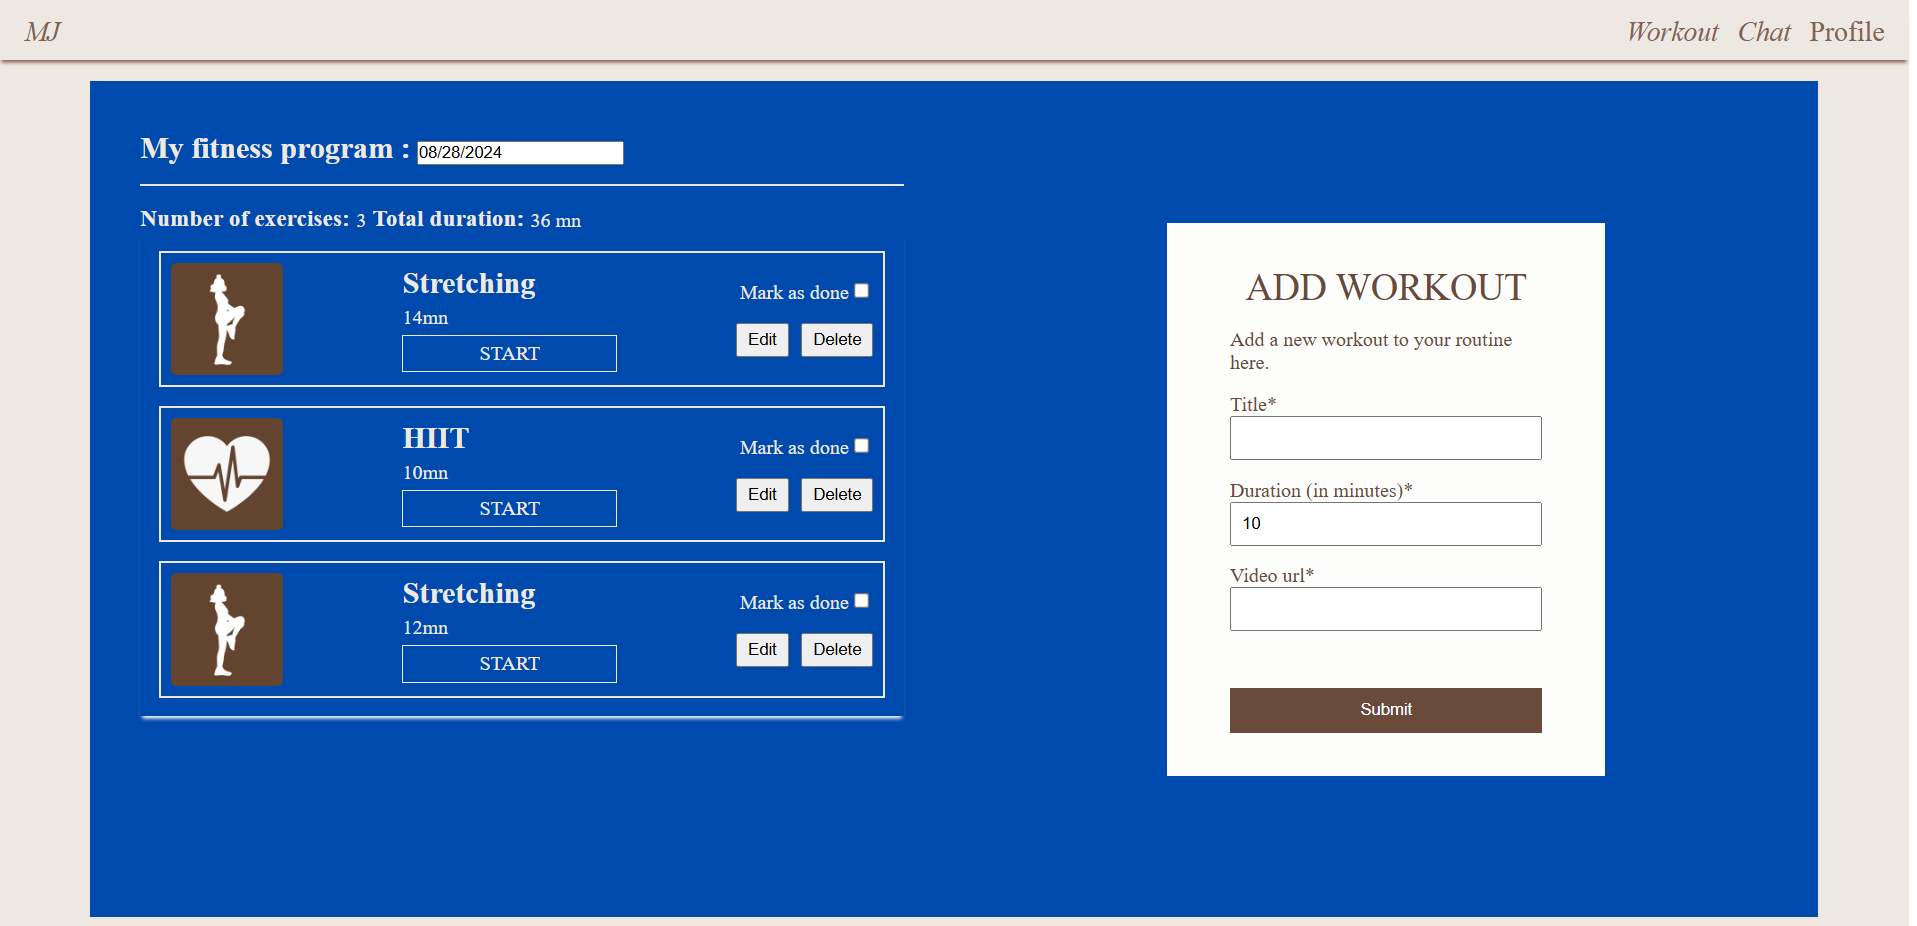
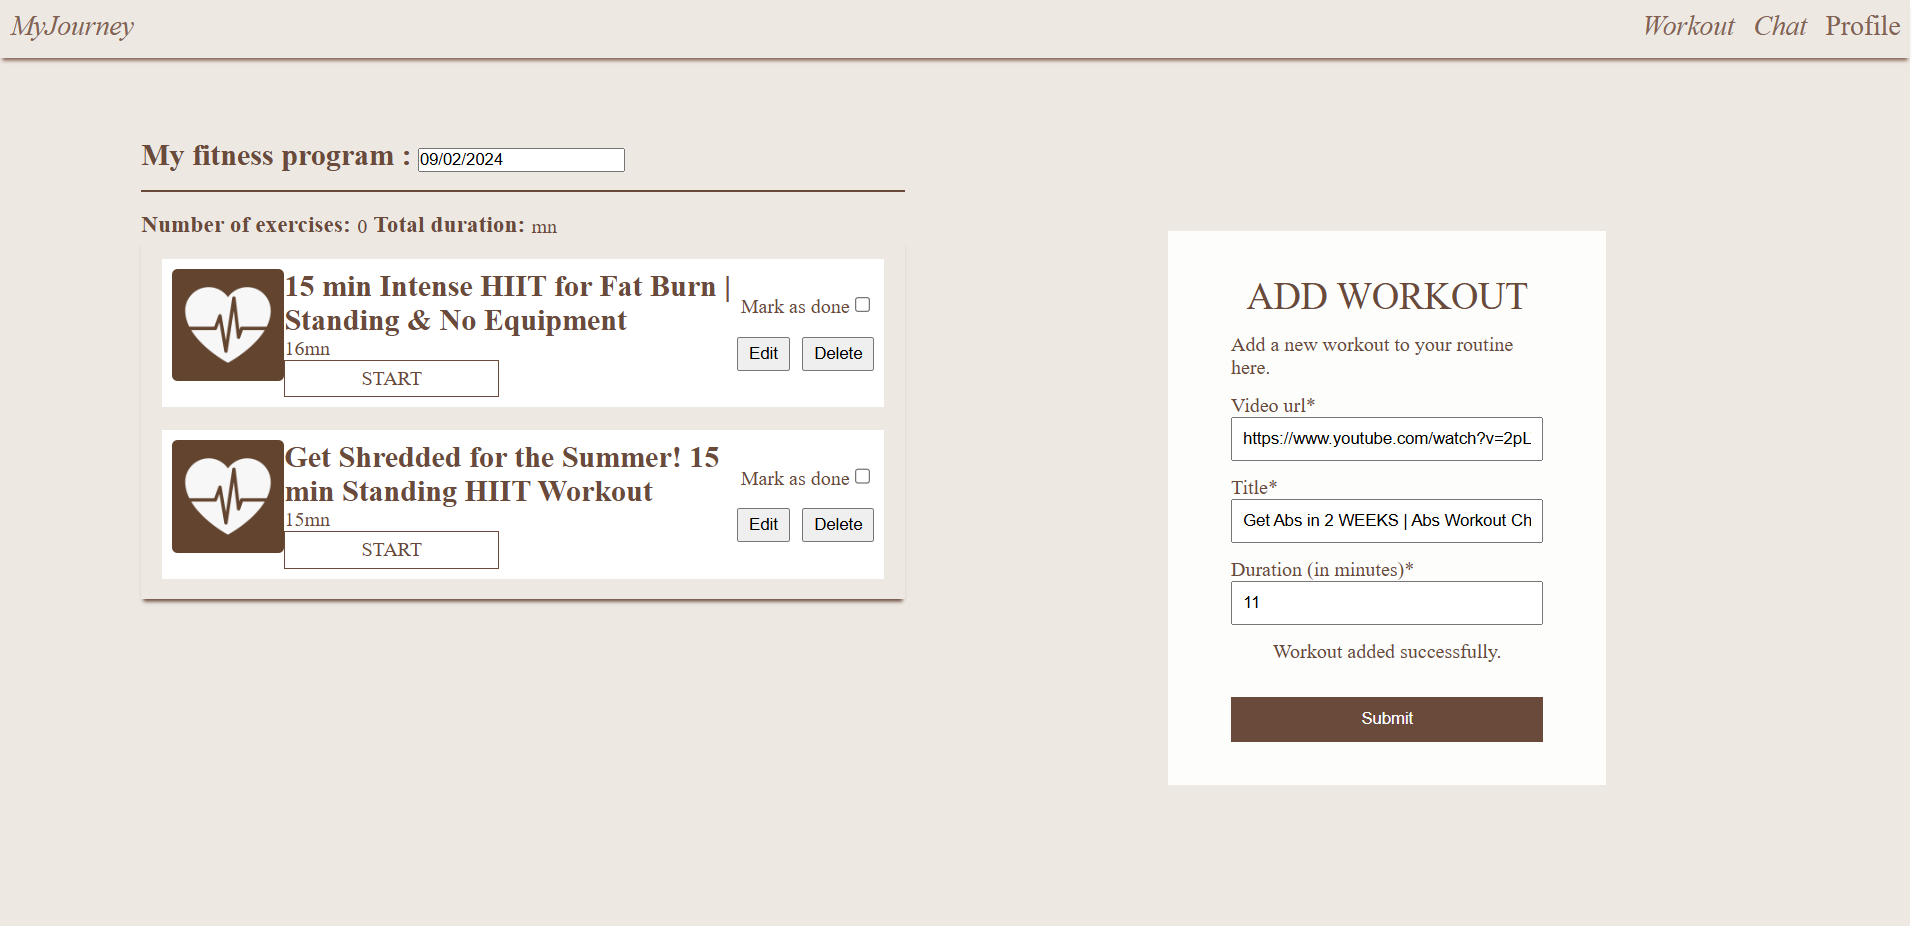
README // Update images and content

diff --git a/README.md b/README.md
@@ -1,10 +1,16 @@
 # About
-MyJourney is a web application where users can:
+MyJourney is a web application where users can create, save, and edit their workout journey. Furthermore, they have the option to chat with an AI or ask questions about their journey.
+
+# Features
 - Create an account.
 - Log in with the created credentials or log out.
-- Create their own workout routine by adding a title, YouTube video URL, and duration into a form.
+- Update their email or password.
+- Delete their account.
+- Add their profile details such as height, weight, etc.
+- Create their own workout routine by adding a YouTube video URL in the form on the fitness page. The title of the video and duration will be automatically filled. Users can still edit the title to their own liking.
 - Update an existing workout.
 - Delete a workout from the list.
+- Ask questions about their workout journey through a chatbot or chat with an AI.
 
 # Technology
 ## Frontend (this project)
@@ -18,6 +24,7 @@ MyJourney is a web application where users can:
 
 # Other
 - YouTube API
+- Gemini API
 
 # How to run it on your computer
 
@@ -30,7 +37,7 @@ This project requires a [Node.js API](https://github.com/haingo-raz/MyJourney-AP
 3. Get a YouTube API key to automatically fill entries when creating a workout. Find out how to get your own API [here](https://developers.google.com/youtube/v3/getting-started).
 
 4. Set up the environment variables by creating a .env file. Follow the content of the example.env file. The default URL of the [Node.js API](https://github.com/haingo-raz/MyJourney-API) is `http://localhost:8080` when run locally. Also, add your YouTube API key here.
- 
+
 5. Run `npm start`.
 
 6. View the app on `localhost:3000` in your browser.
@@ -57,3 +64,9 @@ This project requires a [Node.js API](https://github.com/haingo-raz/MyJourney-AP
 
 ## Workout page mobile view
 ![Fitness SM](https://raw.githubusercontent.com/haingo-raz/MyJourney/master/public/UI/fitnessPage-sm.png)
+
+## Chat page (rule-based)
+![Chat](https://raw.githubusercontent.com/haingo-raz/MyJourney/master/public/UI/chatPage-sm.png)
+
+## Chat with AI page
+![Chat with AI](https://raw.githubusercontent.com/haingo-raz/MyJourney/master/public/UI/chatPageWithAI-sm.png)
